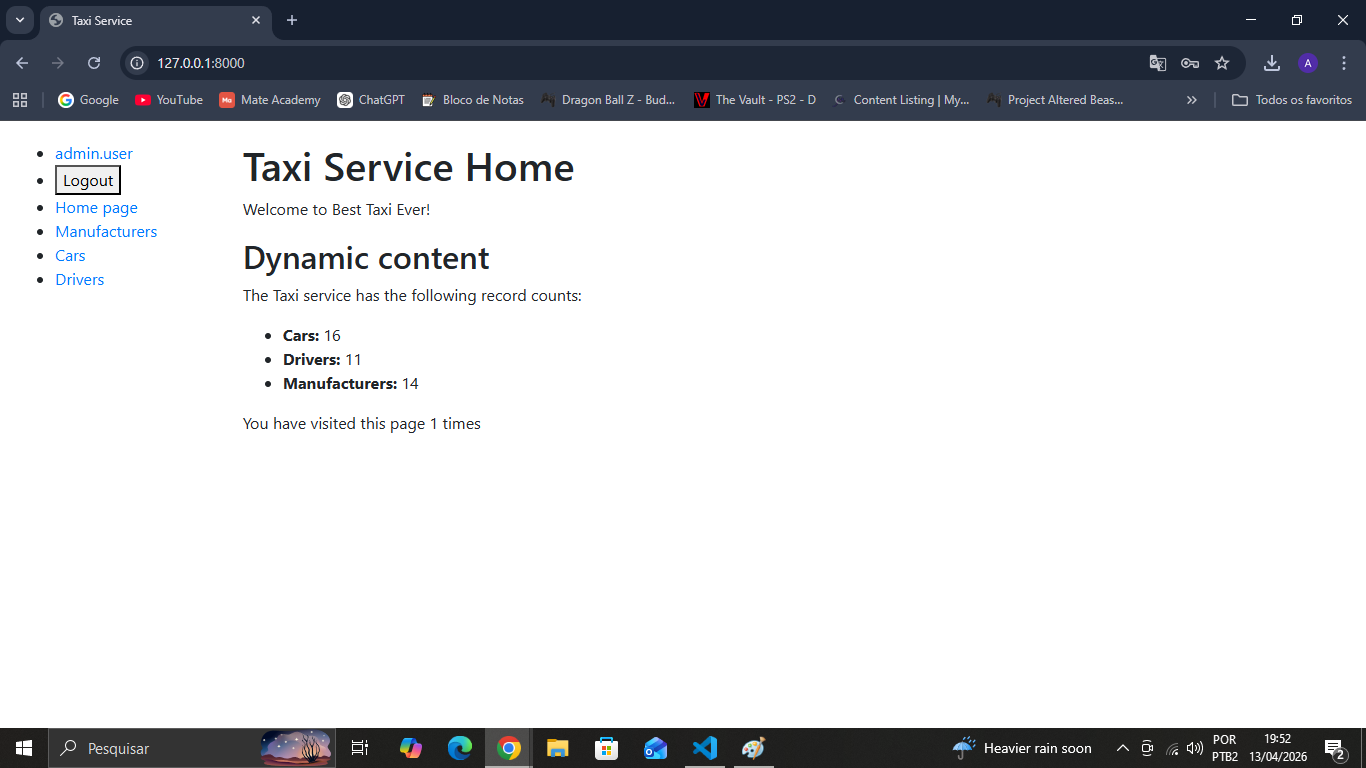
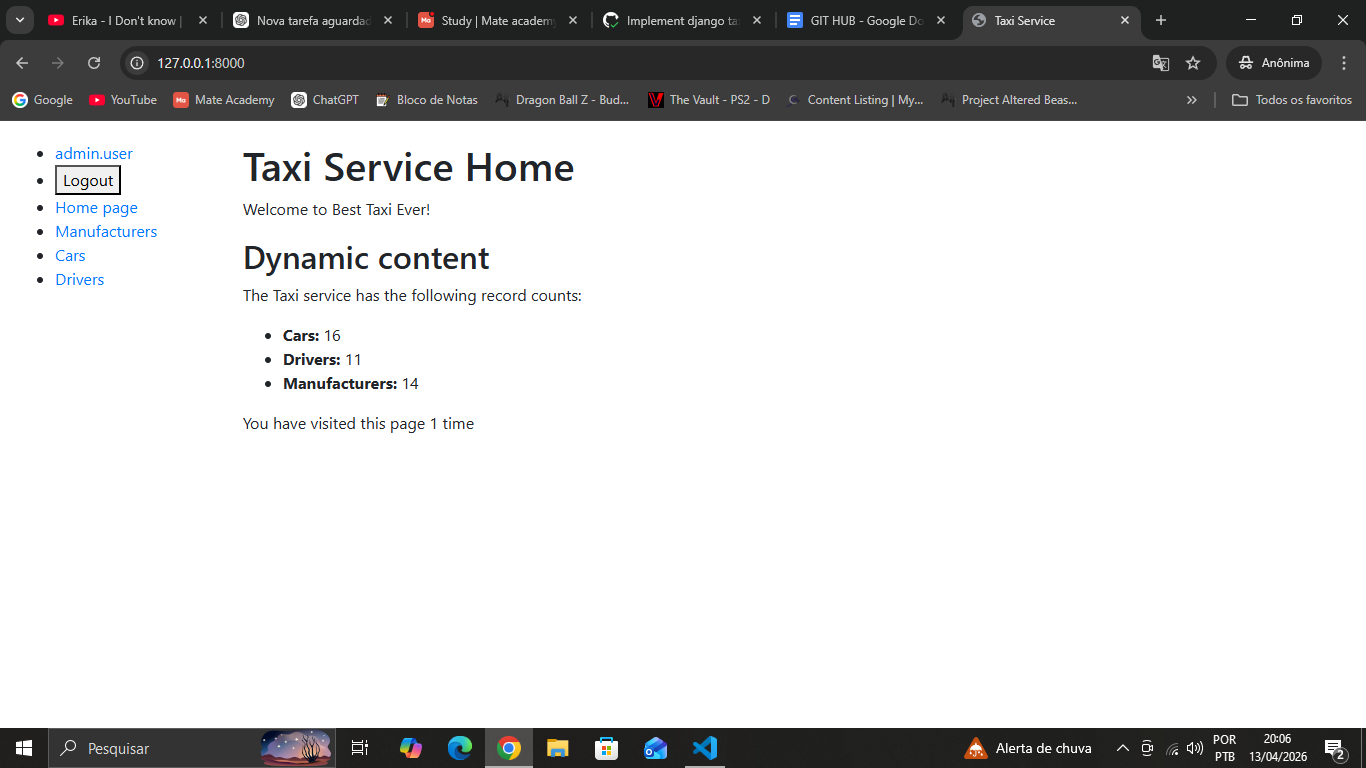
Implement django taxi au 2

diff --git a/templates/taxi/index.html b/templates/taxi/index.html
@@ -15,5 +15,8 @@
     </li>
   </ul>
 
-  <p>You have visited this page {{ num_visits }} times</p>
+  <p>
+    You have visited this page
+    {{ num_visits }} time{{ num_visits|pluralize }}
+  </p>
 {% endblock %}
